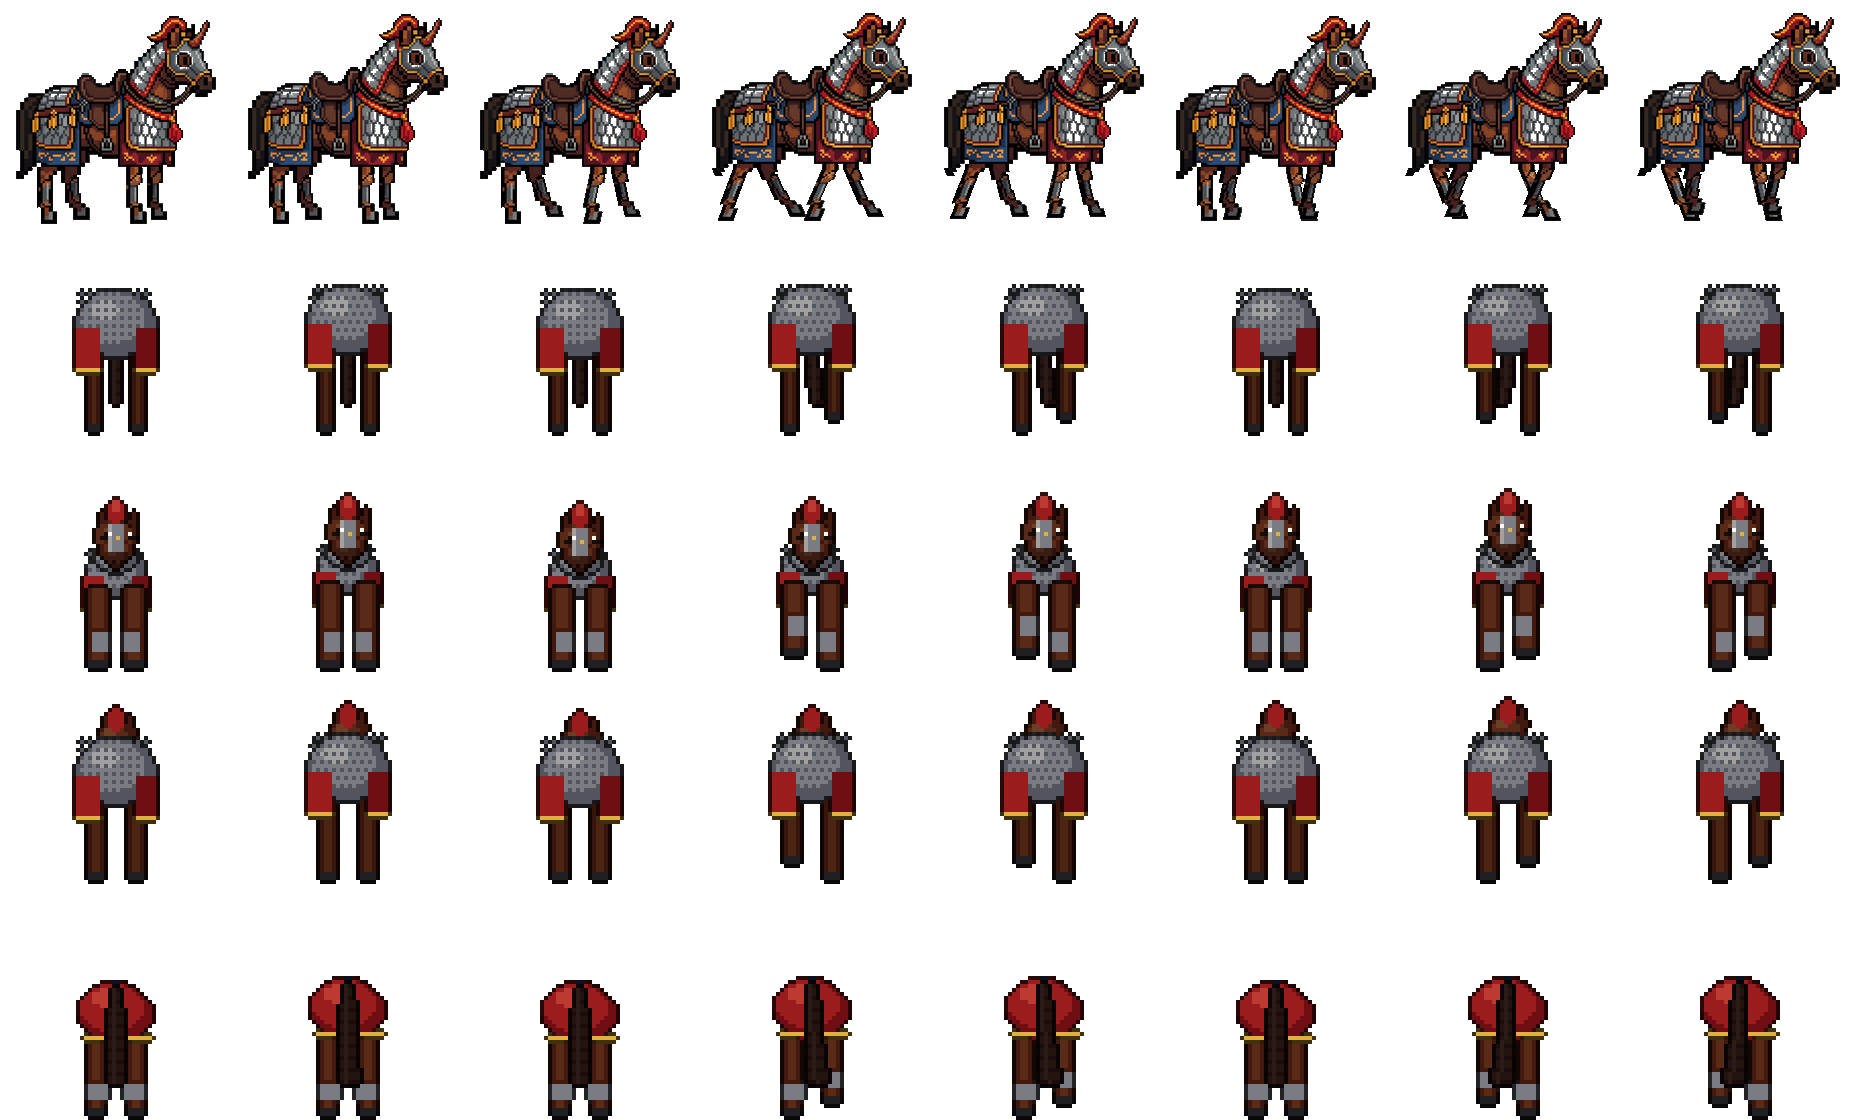
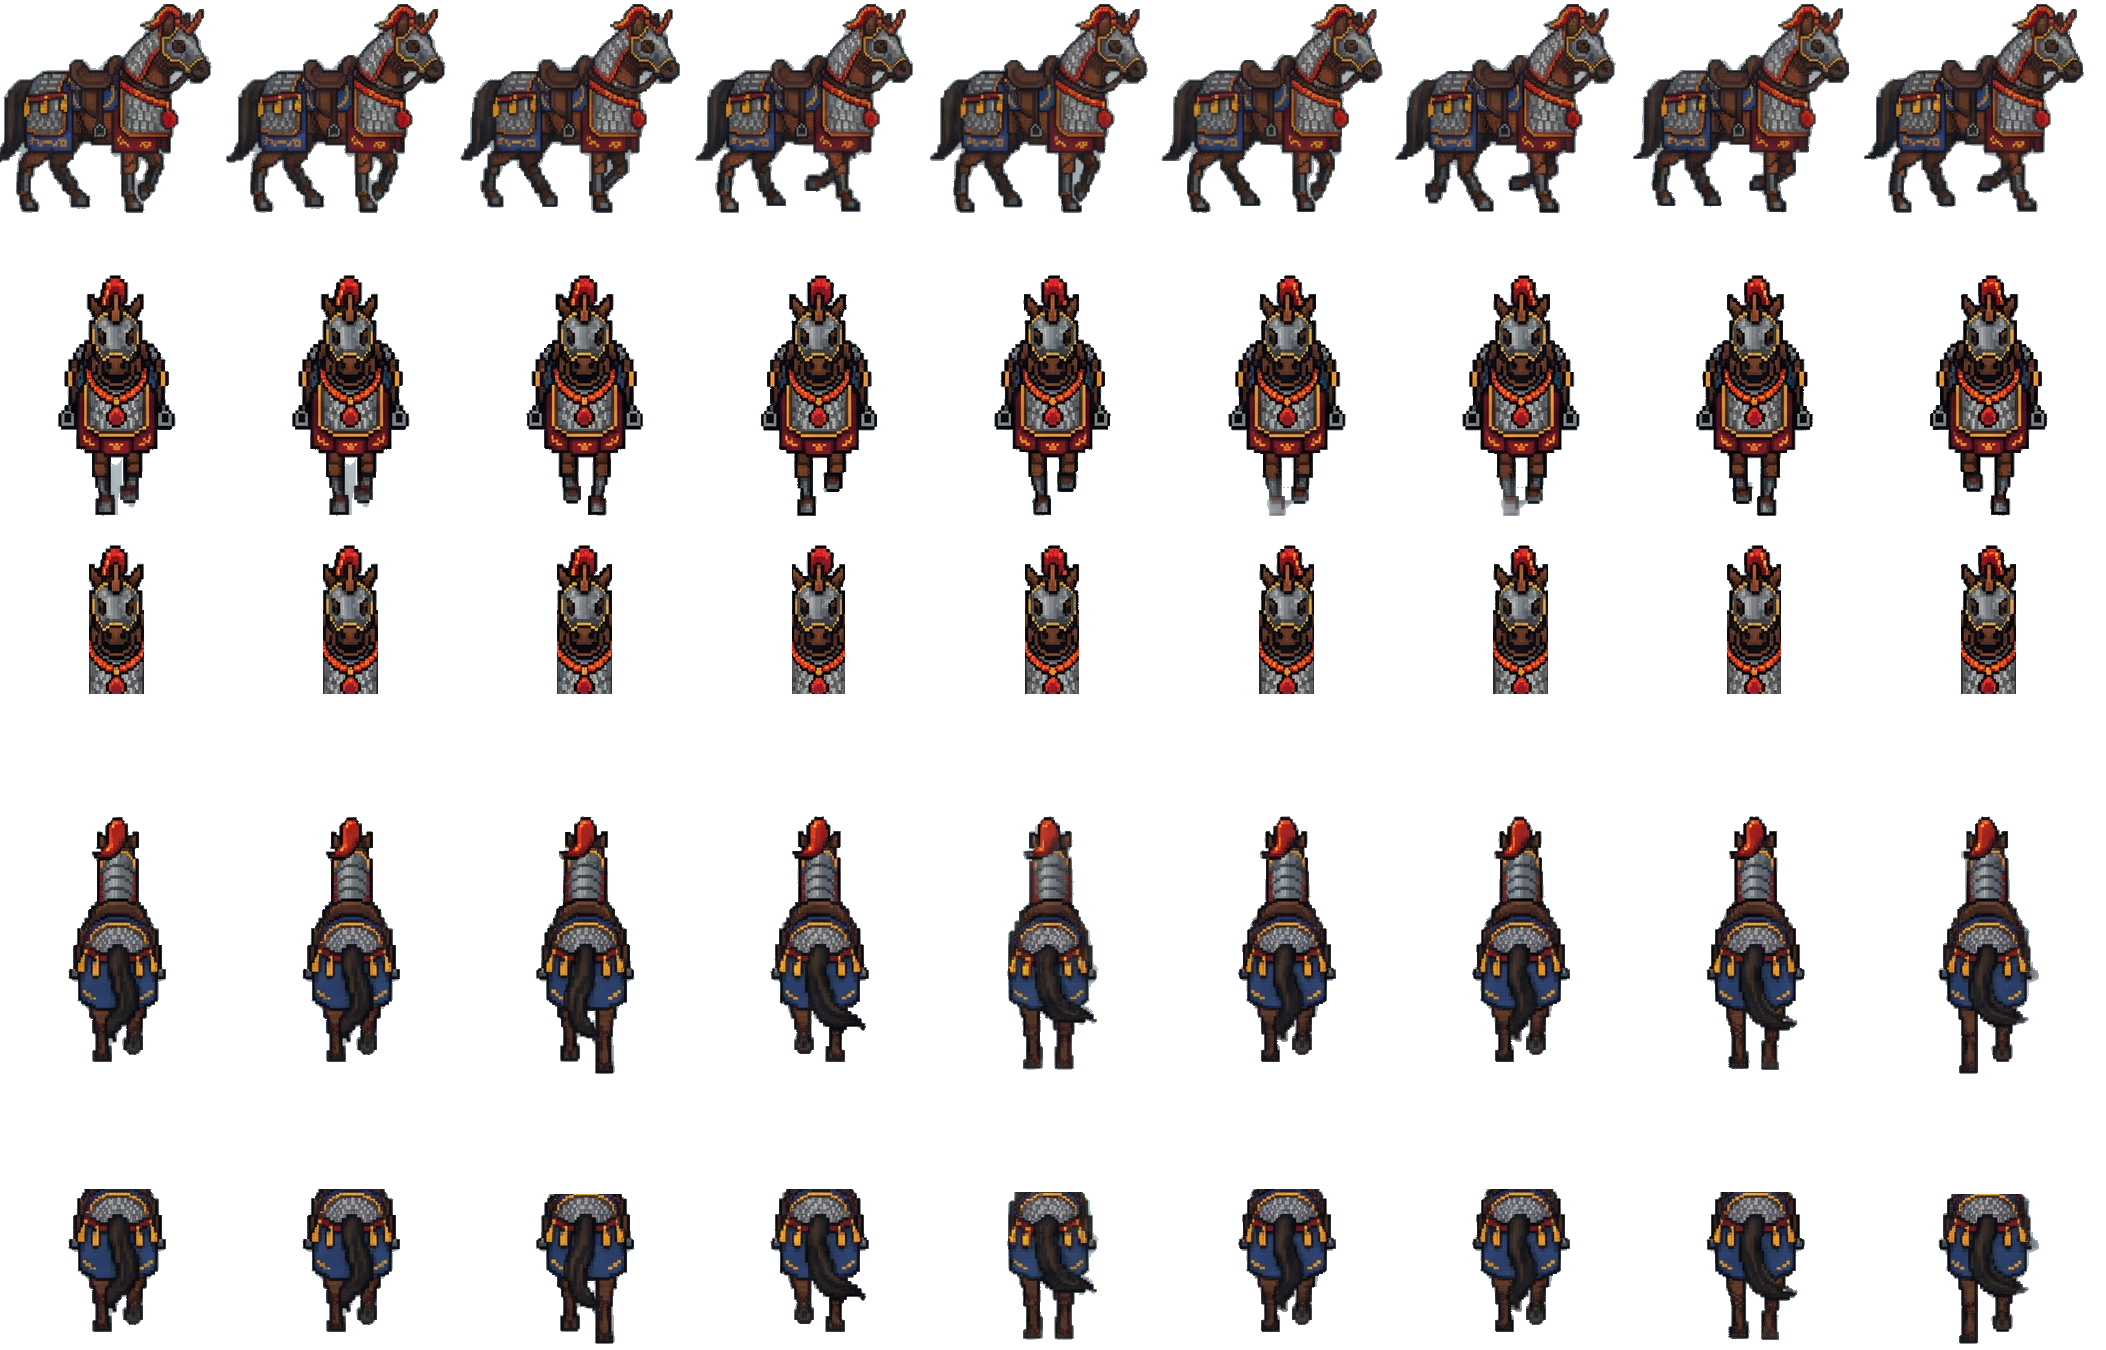
Hac Ma: hand-drawn 4-direction sprites (front, back, 8-frame side walk)
tools/mount_art/hacma.py builds the sheet from the provided frames,
splitting the front view (head, neck, chest) and back view (rump, tail)
into layers drawn over the rider. views.py now skips hac_ma.

Claude-Session: https://claude.ai/code/session_01AqWtbjMjwaw5KPYKGcCy7Z

diff --git a/server/data/changelog.js b/server/data/changelog.js
@@ -4,6 +4,7 @@ const CHANGELOG = [
   {
     date: '02/11/2026',
     items: [
+      '🐴 Hắc Mã (ngựa ô truy chiến giáp) có hình 4 hướng mới vẽ tay: mặt trước, sau lưng và nhìn ngang với dáng chạy 8 nhịp, giáp xích, chùm lông đỏ trên mũ.',
       '📦 HÒM ĐỒ: khi túi đầy, phần thưởng phó bản, sự kiện, boss, áp tiêu và quà gửi lúc offline không còn rơi xuống đất hay bị mất nữa mà được giữ trong Hòm Đồ. Mở Túi đồ → bấm "Nhận" khi đã dọn chỗ.',
       '💰 Giảm mạnh giá bán trang bị cho NPC, tính theo độ hiếm và cấp đồ: thường 15–35, Hiếm 50–110, VIP (tím) 180–420, Truyền Kỳ 730–1.680 lượng (+20% mỗi cấp cường hoá).',
       '🧪 Bình máu và bình nội lực có hồi chiêu 3 giây (mỗi loại tính riêng). Nút bình hiện vòng đếm ngược; tự bơm máu chờ hết hồi chiêu mới dùng tiếp, không làm kẹt việc bơm nội lực.',

diff --git a/tools/mount_art/hacma.py b/tools/mount_art/hacma.py
@@ -1,0 +1,78 @@
+# Hắc Mã (ngựa ô truy chiến giáp) 4 hướng từ sheet người dùng gửi: 7 khung mặt trước, 7 khung sau lưng, 8 khung ngang.
+# Khung đã tách nền ở hac_ma_src/ (offsets.json: khoảng cách đỉnh khung tới đỉnh hàng trong ảnh gốc, giữ nhịp nhún).
+# Chạy SAU build.py / views.py (ghi đè hac_ma.png):  cd tools/mount_art && python3 hacma.py
+# Hàng sheet: 0 ngang (quay phải) | 1 trước-lớp sau | 2 trước-lớp đè người cưỡi (đầu, cổ, ngực) | 3 sau-lớp sau | 4 sau-lớp đè (mông, đuôi, chân sau)
+import json
+import numpy as np
+from PIL import Image
+OUT = '/home/user/Game2d/public/assets/'
+SRC = 'hac_ma_src/'
+K = 0.68            # tỉ lệ thu nhỏ ảnh gốc -> sheet (sheet vẽ ra x0.5 trên màn hình: ngựa cao ~104px)
+PAD = 6
+off = json.load(open(SRC + 'offsets.json'))
+
+def crisp(im):
+    a = np.asarray(im).copy(); a[..., 3] = np.where(a[..., 3] > 120, 255, 0); return Image.fromarray(a, 'RGBA')
+def load(name, flip=False):
+    im = Image.open(SRC + name + '.png').convert('RGBA')
+    if flip: im = im.transpose(Image.FLIP_LEFT_RIGHT)
+    w, h = round(im.width * K), round(im.height * K)
+    return crisp(im.resize((w, h), Image.LANCZOS)), round(off[name][0] * K)
+
+side = [load(f'side_{k}', flip=(k != 3)) for k in range(8)]   # ảnh gốc quay trái (riêng khung 4 quay phải) -> quay phải hết
+front = [load(f'front_{k}') for k in range(7)]
+back = [load(f'back_{k}') for k in range(7)]
+NR = 8
+fb_idx = [round(k * 7 / NR) % 7 for k in range(NR)]          # 7 khung trước/sau trải đều cho 8 nhịp chạy
+cols = [(side[0], front[0], back[0])] + [(side[k], front[fb_idx[k]], back[fb_idx[k]]) for k in range(NR)]
+NT = len(cols)
+allf = [f for c in cols for f in c]
+CW = max(im.width for im, _ in allf) + 2 * PAD
+base = max(o + im.height for im, o in allf)                  # đáy chung (chân chạm đất)
+CH = base + PAD
+sheet = Image.new('RGBA', (CW * NT, CH * 5))
+seats = {'side': [], 'down': [], 'up': []}
+
+def centre_x(im, top_frac=0.6):
+    a = np.asarray(im)[..., 3] > 0; h = a.shape[0]
+    ys, xs = np.nonzero(a[:int(h * top_frac)]); return xs.mean()
+def top_at(im, x):
+    col = np.asarray(im)[:, int(x), 3] > 0; ys = np.nonzero(col)[0]; return ys[0] if len(ys) else 0
+
+s0, so0 = side[0]
+SIDE_SEAT_FX, SIDE_SEAT_DY = 0.43, 16      # yên ngựa: 43% bề ngang (tính từ đuôi), thấp hơn lưng 10px
+for ci, ((si, so), (fi, fo), (bi, bo)) in enumerate(cols):
+    x0 = ci * CW
+    # ngang: căn theo thân (nửa trên), chân chạm đáy chung
+    cx = centre_x(si); px = round(CW / 2 - cx); py = so
+    sheet.alpha_composite(si, (x0 + px, py))
+    sx = SIDE_SEAT_FX * si.width
+    seats['side'].append([round(px + sx, 1), round(py + top_at(si, sx) + SIDE_SEAT_DY, 1)])
+    # trước: lớp sau = cả ngựa; lớp đè = đầu + cổ + ngực (dải giữa) che phần dưới người cưỡi
+    fa = np.asarray(fi).copy(); h, w = fa.shape[:2]
+    m = np.zeros((h, w), bool); c0 = int(w * 0.27); c1 = int(w * 0.73); m[:int(h * 0.62), c0:c1] = True
+    over = fa.copy(); over[~m] = 0
+    pxf = round(CW / 2 - w / 2)
+    sheet.alpha_composite(fi, (x0 + pxf, CH + fo))
+    sheet.alpha_composite(Image.fromarray(over, 'RGBA'), (x0 + pxf, 2 * CH + fo))
+    ftop = np.nonzero((fa[..., 3] > 0).any(1))[0][0]
+    seats['down'].append([round(CW / 2, 1), round(fo + ftop + h * 0.13, 1)])
+    # sau: lớp sau = cả ngựa; lớp đè = mông, vải giáp, đuôi, chân sau (nửa dưới)
+    ba = np.asarray(bi).copy(); h2, w2 = ba.shape[:2]
+    cut = int(h2 * 0.42); over2 = ba.copy(); over2[:cut] = 0
+    pxb = round(CW / 2 - w2 / 2)
+    sheet.alpha_composite(bi, (x0 + pxb, 3 * CH + bo))
+    sheet.alpha_composite(Image.fromarray(over2, 'RGBA'), (x0 + pxb, 4 * CH + bo))
+    btop = np.nonzero((ba[..., 3] > 0).any(1))[0][0]
+    seats['up'].append([round(CW / 2, 1), round(bo + cut + 2, 1)])
+
+sheet.save(OUT + 'mounts/hac_ma.png', optimize=True)
+meta = json.load(open(OUT + 'mounts.json'))
+meta['per']['hac_ma'] = {'cell': [CW, CH], 'foot': [CW / 2, int(base) - 1], 'footFB': [CW / 2, int(base) - 1],
+                         'frames': {'idle': [0, 1], 'run': [1, NR]}, 'rows': {'side': [0], 'down': [1, 2], 'up': [3, 4]},
+                         'scale': 0.5, 'runMs': 95, 'idleMs': 700}
+meta['seats']['hac_ma'] = seats
+meta['seat']['hac_ma'] = seats['side']
+txt = json.dumps(meta, default=float)
+open(OUT + 'mounts.json', 'w').write(txt)
+print('hac_ma', CW, CH, NT)

diff --git a/tools/mount_art/views.py b/tools/mount_art/views.py
@@ -482,6 +482,6 @@ def build(name):
 
 if __name__ == '__main__':
     import sys
-    names = sys.argv[1:] or list(P)
+    names = sys.argv[1:] or [k for k in P if k != 'hac_ma']   # Hắc Mã có ảnh 4 hướng riêng: hacma.py
     for nm in names:
         build(nm); print('ok', nm)
